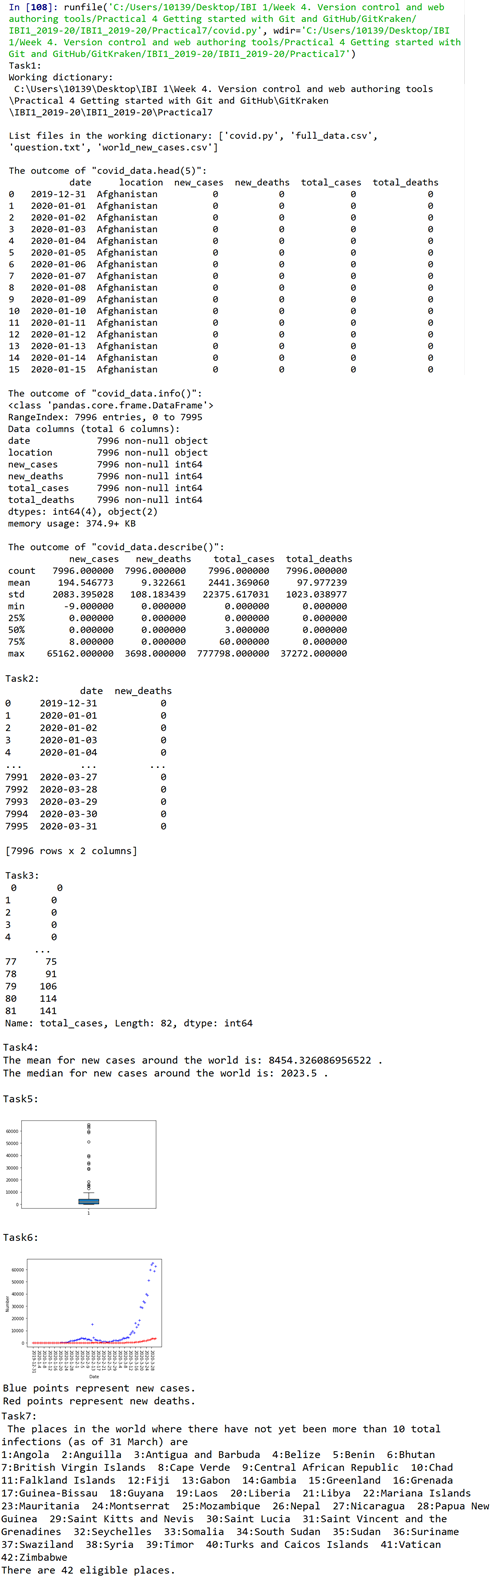
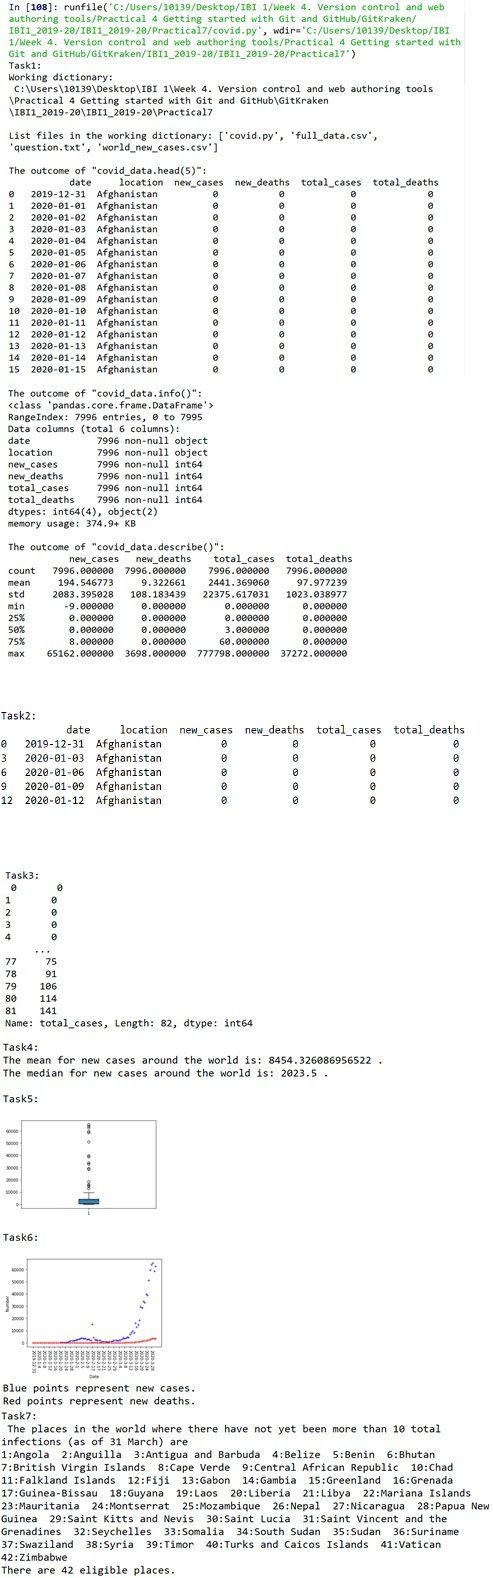
Revise the outcome of practical 7

diff --git a/Practical7/covid.py b/Practical7/covid.py
@@ -22,7 +22,7 @@ covid_data.info() # Data points are integer. Columns: data, location, new_cases,
 # Use describe command
 print ('\nThe outcome of "covid_data.describe()":\n', covid_data.describe(), '\n') # The mean of new cases is 194.546773, the median of new cases is 0.
 # Use iloc & loc command
-print ('Task2:\n',covid_data.iloc[:,0:15:3])
+print ('Task2:\n',covid_data.iloc[0:15:3,:])
 # Use a Boolean to show “total cases” for all rows corresponding to Afghanistan. 
 Boolean_sequence = []
 for i in range(0, 7996):
